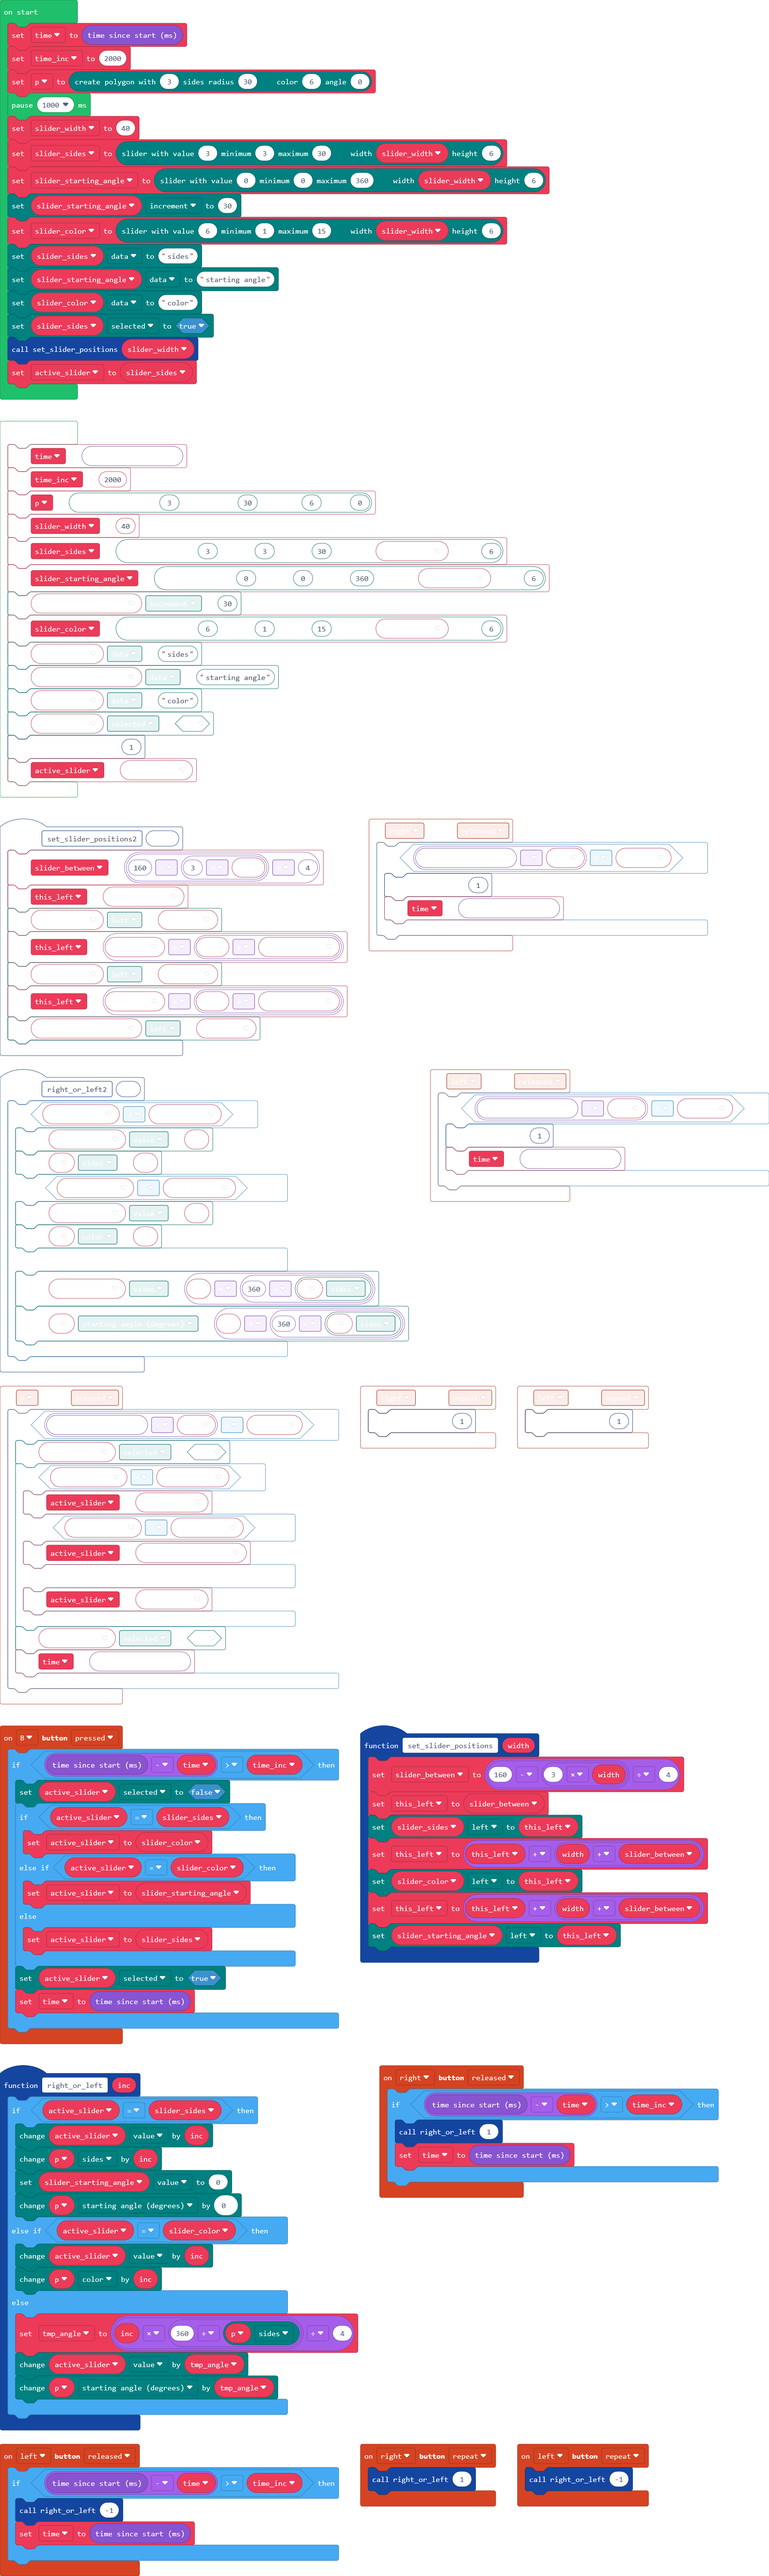
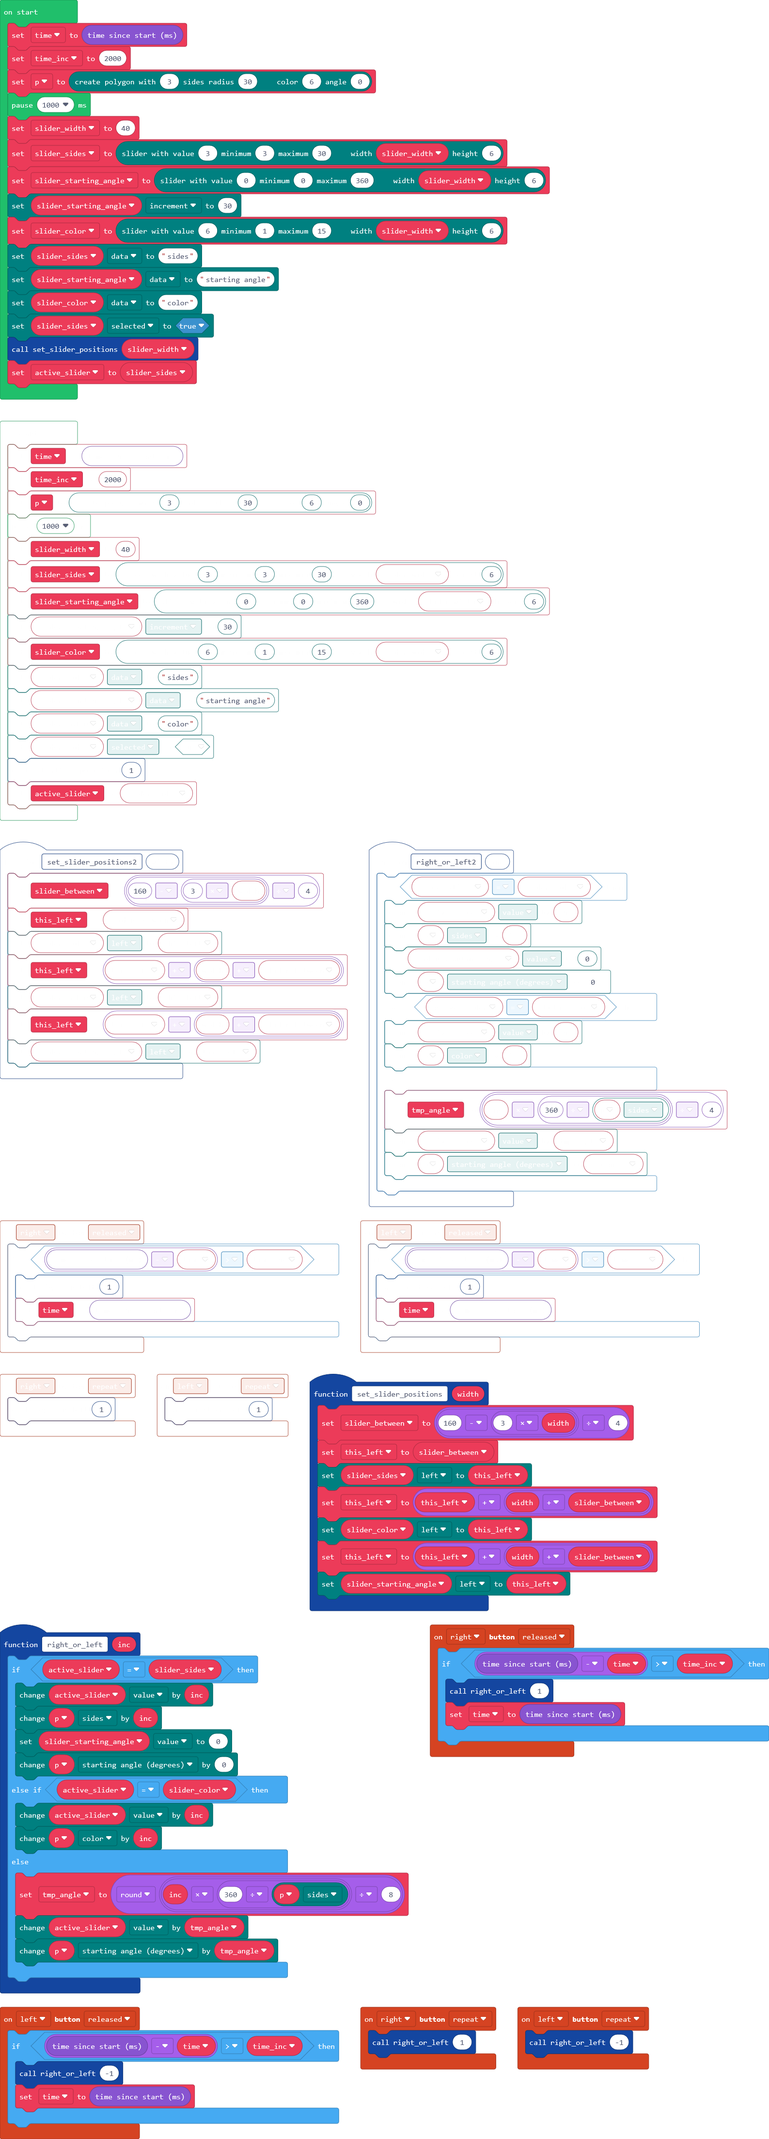
Update main.blocks, main.ts

diff --git a/main.ts b/main.ts
@@ -50,7 +50,7 @@ function right_or_left (inc: number) {
         active_slider.value += inc
         p.color += inc
     } else {
-        tmp_angle = inc * (360 / p.sides) / 4
+        tmp_angle = Math.round(inc * (360 / p.sides) / 8)
         active_slider.value += tmp_angle
         p.angle += tmp_angle
     }
